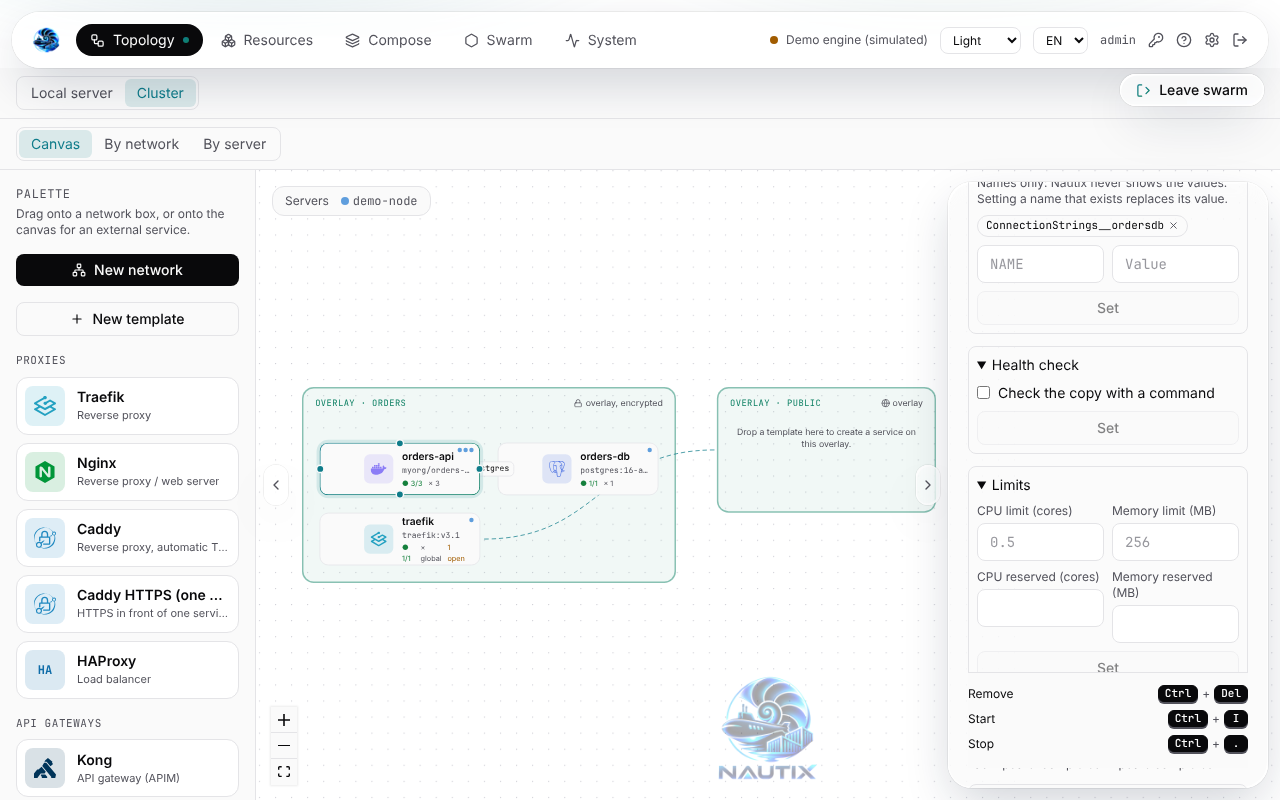
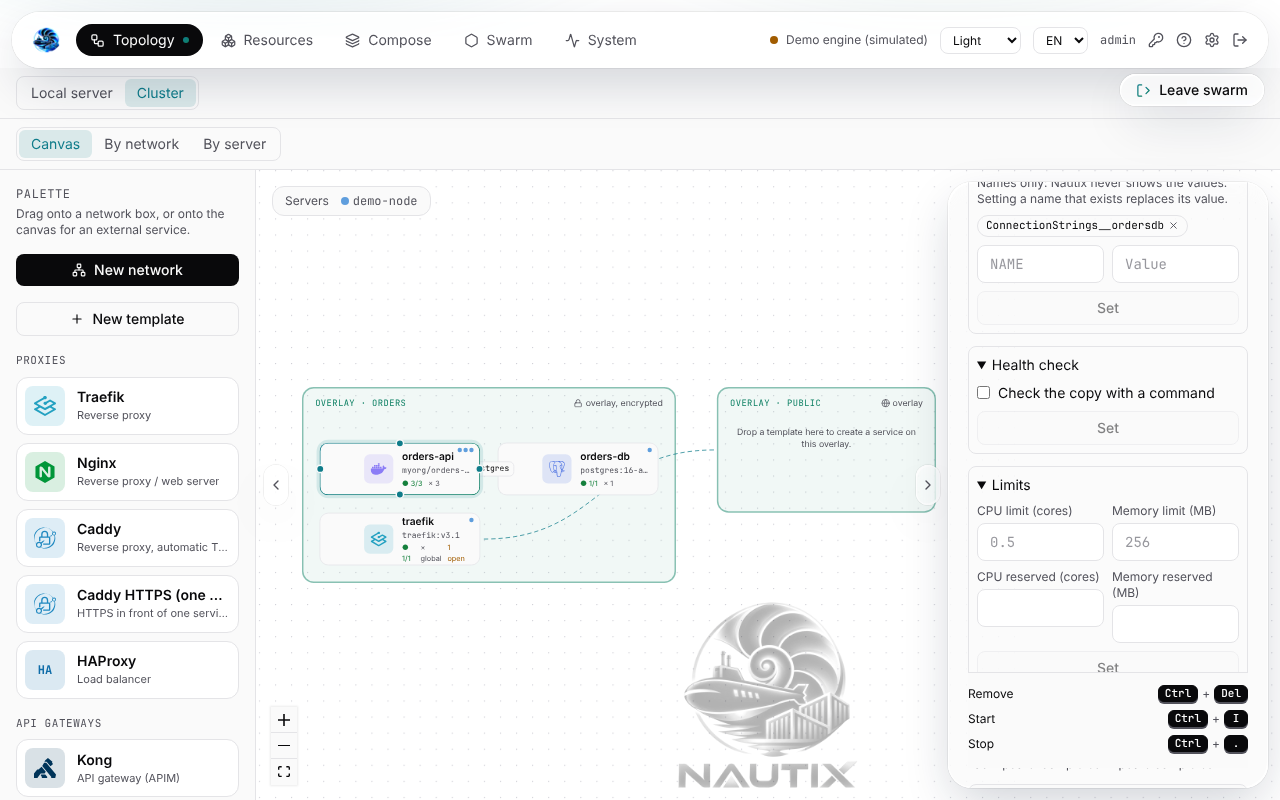
Monochrome, larger canvas watermark; CSS accent fallbacks match the teal default; refreshed help screenshots
Claude-Session: https://claude.ai/code/session_0164oxADUWrSQSEX3m98FUhV

Changed region(s): [[0.5312, 0.75, 0.6875, 1.0]]

diff --git a/apps/web/src/theme/theme.css b/apps/web/src/theme/theme.css
@@ -10,20 +10,20 @@
   --nx-text-dim: #a1a1aa;
   --nx-primary: #fafafa;
   --nx-primary-fg: #09090b;
-  --nx-accent: #5b9bff;
+  --nx-accent: #15a9bc;
   --nx-accent-fg: #09090b;
-  --nx-accent-soft: #5b9bff22;
-  --nx-accent-2: #2dd4bf;
+  --nx-accent-soft: #15a9bc22;
+  --nx-accent-2: #15bc92;
   --nx-ok: #4ade80;
   --nx-cyan: #38bdf8;
   --nx-amber: #fbbf24;
   --nx-danger: #ef4444;
   --nx-grid: #3f3f46;
-  --nx-zone: #5b9bff0d;
-  --nx-zone-line: #5b9bff66;
-  --nx-zone-2: #2dd4bf0f;
-  --nx-zone-line-2: #2dd4bf77;
-  --nx-aurora-glow: #2dd4bf3d;
+  --nx-zone: #15a9bc0d;
+  --nx-zone-line: #15a9bc66;
+  --nx-zone-2: #15bc920f;
+  --nx-zone-line-2: #15bc9277;
+  --nx-aurora-glow: #15bc923d;
   --nx-ext-line: #a1a1aa55;
   --nx-glow: 0 0 0 4px var(--nx-accent-soft);
   --nx-glass-bg: #14141788;
@@ -41,20 +41,20 @@
   --nx-text-dim: #52525b;
   --nx-primary: #09090b;
   --nx-primary-fg: #fafafa;
-  --nx-accent: #2563eb;
+  --nx-accent: #0f7c8a;
   --nx-accent-fg: #ffffff;
-  --nx-accent-soft: #2563eb18;
-  --nx-accent-2: #0d9488;
+  --nx-accent-soft: #0f7c8a18;
+  --nx-accent-2: #0e8064;
   --nx-ok: #15803d;
   --nx-cyan: #0369a1;
   --nx-amber: #a15c00;
   --nx-danger: #dc2626;
   --nx-grid: #c4c4cc;
-  --nx-zone: #2563eb0a;
-  --nx-zone-line: #2563eb77;
-  --nx-zone-2: #0d94880f;
-  --nx-zone-line-2: #0d948888;
-  --nx-aurora-glow: #2dd4bf30;
+  --nx-zone: #0f7c8a0a;
+  --nx-zone-line: #0f7c8a77;
+  --nx-zone-2: #0e80640f;
+  --nx-zone-line-2: #0e806488;
+  --nx-aurora-glow: #0e806430;
   --nx-ext-line: #52525b55;
   --nx-glow: 0 0 0 4px var(--nx-accent-soft);
   --nx-glass-bg: #ffffff9e;

diff --git a/apps/web/src/components/canvas-watermark.tsx b/apps/web/src/components/canvas-watermark.tsx
@@ -1,13 +1,13 @@
 import { ThemedLogo } from "./themed-logo.js";
 
-/** Faint brand mark in the corner of a canvas; the full logo reads better than the round emblem on the grid. */
+/** Faint monochrome brand mark at the foot of a canvas; the full logo reads better than the round emblem on the grid. */
 export function CanvasWatermark() {
   return (
     <div
       aria-hidden="true"
-      className="pointer-events-none absolute bottom-3 left-1/2 z-0 -translate-x-1/2 opacity-35"
+      className="pointer-events-none absolute bottom-0 left-1/2 z-0 -translate-x-1/2 opacity-30 grayscale"
     >
-      <ThemedLogo size={96} alt="" />
+      <ThemedLogo size={200} alt="" />
     </div>
   );
 }
